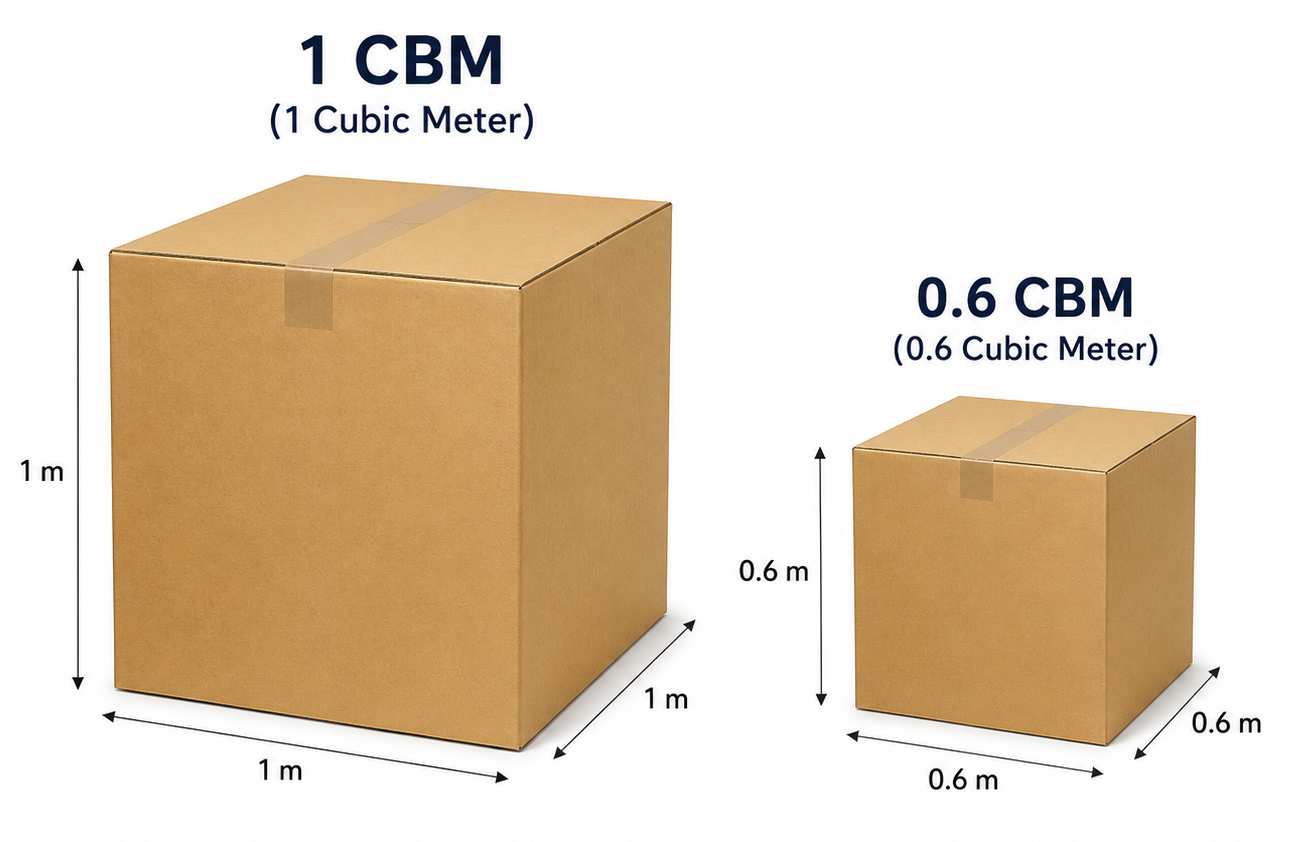
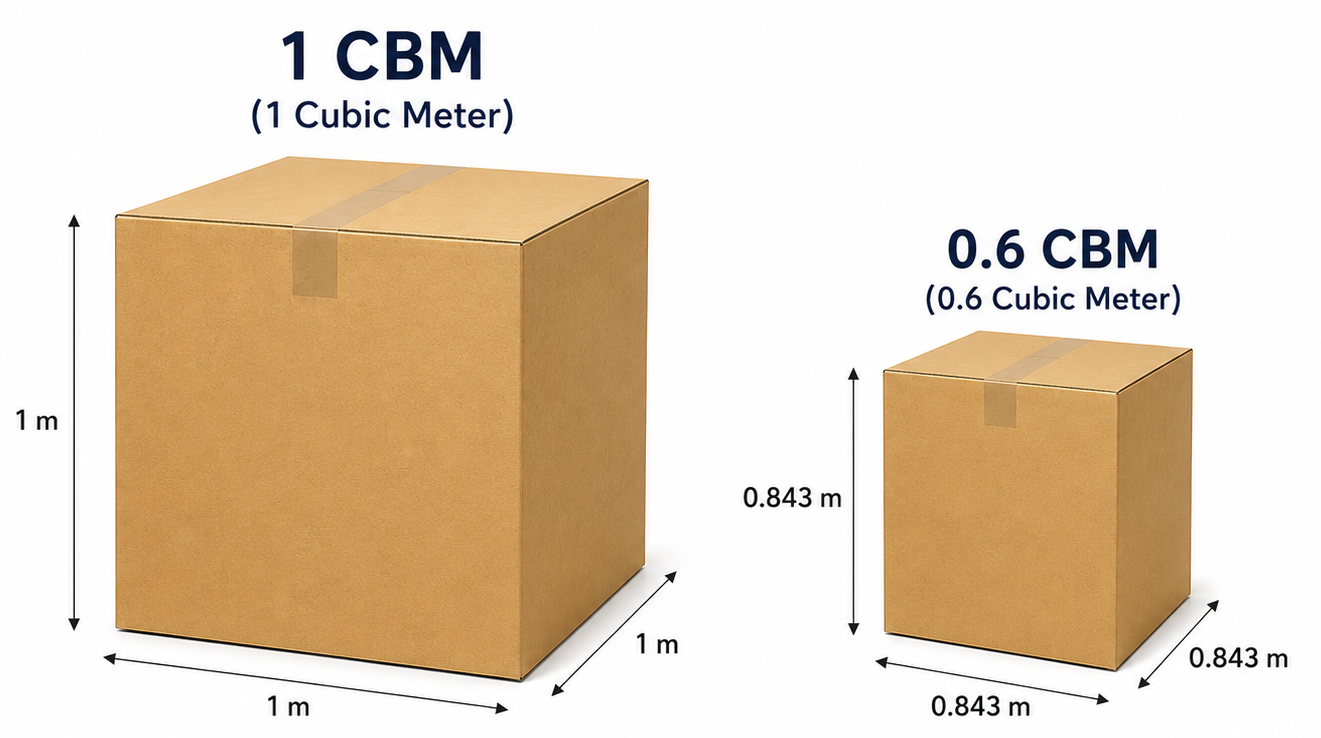
sourcing fee explanation

diff --git a/components/HowItWorks.tsx b/components/HowItWorks.tsx
@@ -19,7 +19,20 @@ export function HowItWorks() {
                 {index + 1}
               </div>
               <h3 className="mt-6 text-xl font-black text-navy-950">{step.title}</h3>
-              <p className="mt-3 leading-7 text-slate-600">{step.description}</p>
+              {index === 1 ? (
+                <p className="mt-3 leading-7 text-slate-600">
+                  We source, verify the supplier, and prepare a clear quote. A{" "}
+                  <a
+                    href="#sourcing-fee"
+                    className="font-black text-teal-600 underline decoration-teal-500 decoration-2 underline-offset-4 transition hover:text-ember-500"
+                  >
+                    sourcing fee
+                  </a>{" "}
+                  applies for supplier search, product checks, and order coordination.
+                </p>
+              ) : (
+                <p className="mt-3 leading-7 text-slate-600">{step.description}</p>
+              )}
             </article>
           ))}
         </div>

diff --git a/components/Pricing.tsx b/components/Pricing.tsx
@@ -21,6 +21,7 @@ export function Pricing() {
         <div className="grid gap-5 lg:grid-cols-3">
           {siteContent.pricing.map((item) => (
             <article
+              id={item.title === "Sourcing Fee" ? "sourcing-fee" : undefined}
               className={`relative overflow-hidden rounded-lg p-7 shadow-soft ring-1 ${
                 item.highlight
                   ? "bg-navy-950 text-white ring-gold-400/40"

diff --git a/data/site.ts b/data/site.ts
@@ -239,7 +239,7 @@ export const siteContent = {
       title: "Sourcing Fee",
       price: "5k KES",
       unit: "per order",
-      description: "Supplier search, product verification, quote support, and order coordination."
+      description: "Supplier search, product verification, quote support, and order coordination. Deductible from your first order purchase."
     }
   ],
   warehouses: [
